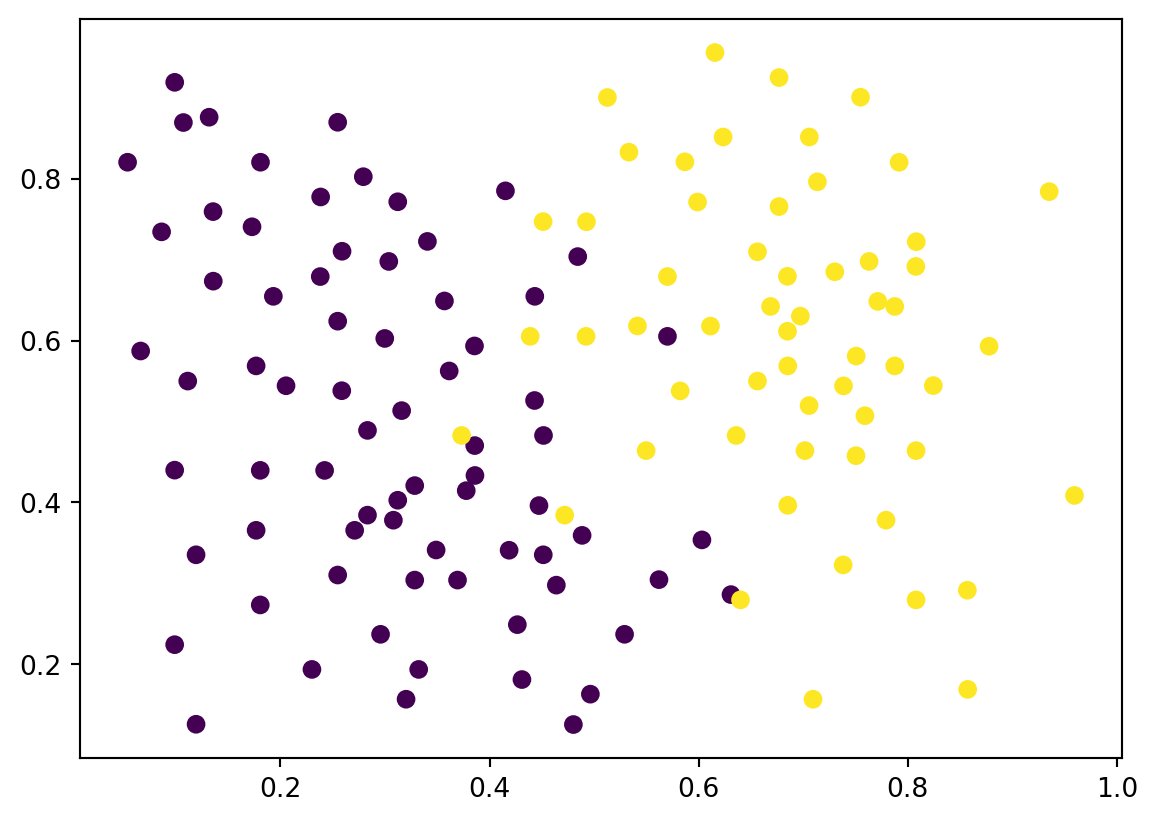
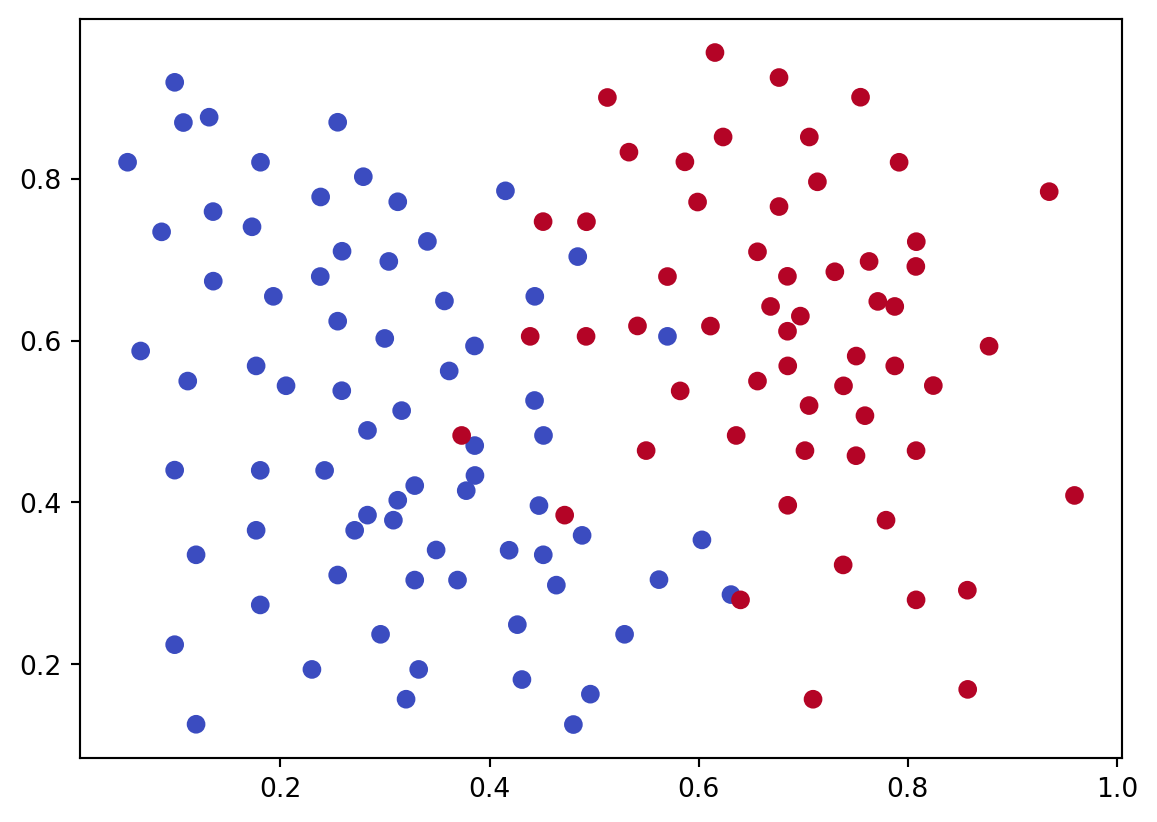
Add simple SVM classification and visualization

diff --git a/fish.html b/fish.html
@@ -98,19 +98,18 @@ pre > code.sourceCode > span > a:first-child::before { text-decoration: underlin
 
 <section id="imports" class="level1">
 <h1>imports</h1>
-<div id="112a0991" class="cell" data-execution_count="1">
+<div id="1d9efc10" class="cell" data-execution_count="1">
 <div class="sourceCode cell-code" id="cb1"><pre class="sourceCode python code-with-copy"><code class="sourceCode python"><span id="cb1-1"><a href="#cb1-1" aria-hidden="true" tabindex="-1"></a><span class="im">import</span> pandas <span class="im">as</span> pd</span>
 <span id="cb1-2"><a href="#cb1-2" aria-hidden="true" tabindex="-1"></a><span class="im">import</span> numpy <span class="im">as</span> np</span>
 <span id="cb1-3"><a href="#cb1-3" aria-hidden="true" tabindex="-1"></a><span class="im">import</span> matplotlib.pyplot <span class="im">as</span> plt</span>
 <span id="cb1-4"><a href="#cb1-4" aria-hidden="true" tabindex="-1"></a><span class="im">from</span> matplotlib.figure <span class="im">import</span> Figure</span>
 <span id="cb1-5"><a href="#cb1-5" aria-hidden="true" tabindex="-1"></a><span class="im">from</span> sklearn.svm <span class="im">import</span> SVC</span>
-<span id="cb1-6"><a href="#cb1-6" aria-hidden="true" tabindex="-1"></a><span class="im">from</span> sklearn.linear_model <span class="im">import</span> LinearRegression</span>
-<span id="cb1-7"><a href="#cb1-7" aria-hidden="true" tabindex="-1"></a><span class="im">from</span> sklearn <span class="im">import</span> datasets</span></code><button title="Copy to Clipboard" class="code-copy-button"><i class="bi"></i></button></pre></div>
+<span id="cb1-6"><a href="#cb1-6" aria-hidden="true" tabindex="-1"></a><span class="im">from</span> sklearn.linear_model <span class="im">import</span> LinearRegression</span></code><button title="Copy to Clipboard" class="code-copy-button"><i class="bi"></i></button></pre></div>
 </div>
 </section>
 <section id="mock-data" class="level1">
-<h1>mock data</h1>
-<div id="125c2a4e" class="cell" data-execution_count="2">
+<h1>mock Data</h1>
+<div id="0eb1323a" class="cell" data-execution_count="2">
 <div class="sourceCode cell-code" id="cb2"><pre class="sourceCode python code-with-copy"><code class="sourceCode python"><span id="cb2-1"><a href="#cb2-1" aria-hidden="true" tabindex="-1"></a>xVal <span class="op">=</span> np.array(<span class="bu">range</span>(<span class="dv">1</span>, <span class="dv">6</span>), dtype<span class="op">=</span><span class="st">'float'</span>)</span>
 <span id="cb2-2"><a href="#cb2-2" aria-hidden="true" tabindex="-1"></a>yVal <span class="op">=</span> <span class="dv">50</span> <span class="op">+</span> <span class="dv">12</span> <span class="op">*</span> (xVal <span class="op">-</span> <span class="dv">3</span>) <span class="op">+</span> np.random.normal(<span class="dv">0</span>, <span class="dv">4</span>, <span class="bu">len</span>(xVal))</span>
 <span id="cb2-3"><a href="#cb2-3" aria-hidden="true" tabindex="-1"></a>fig: Figure <span class="op">=</span> plt.figure()</span>
@@ -129,7 +128,7 @@ pre > code.sourceCode > span > a:first-child::before { text-decoration: underlin
 </div>
 </div>
 </div>
-<div id="8ca10e9e" class="cell" data-execution_count="3">
+<div id="218a8fb9" class="cell" data-execution_count="3">
 <div class="sourceCode cell-code" id="cb3"><pre class="sourceCode python code-with-copy"><code class="sourceCode python"><span id="cb3-1"><a href="#cb3-1" aria-hidden="true" tabindex="-1"></a>linReg <span class="op">=</span> LinearRegression()</span>
 <span id="cb3-2"><a href="#cb3-2" aria-hidden="true" tabindex="-1"></a>linReg.fit(xVal.reshape(<span class="op">-</span><span class="dv">1</span>, <span class="dv">1</span>), yVal)</span>
 <span id="cb3-3"><a href="#cb3-3" aria-hidden="true" tabindex="-1"></a></span>
@@ -153,7 +152,7 @@ pre > code.sourceCode > span > a:first-child::before { text-decoration: underlin
 </section>
 <section id="fish-dict-construction" class="level1">
 <h1>Fish Dict Construction</h1>
-<div id="7156f252" class="cell" data-execution_count="4">
+<div id="c93af35d" class="cell" data-execution_count="4">
 <div class="sourceCode cell-code" id="cb4"><pre class="sourceCode python code-with-copy"><code class="sourceCode python"><span id="cb4-1"><a href="#cb4-1" aria-hidden="true" tabindex="-1"></a>fish_raw <span class="op">=</span> pd.read_csv(<span class="st">'fish.csv'</span>)</span>
 <span id="cb4-2"><a href="#cb4-2" aria-hidden="true" tabindex="-1"></a>fish_dict <span class="op">=</span> {</span>
 <span id="cb4-3"><a href="#cb4-3" aria-hidden="true" tabindex="-1"></a>  <span class="st">'data'</span> : np.array(fish_raw.iloc[:, :<span class="op">-</span><span class="dv">1</span>]),</span>
@@ -165,7 +164,7 @@ pre > code.sourceCode > span > a:first-child::before { text-decoration: underlin
 </section>
 <section id="split-data" class="level1">
 <h1>Split Data</h1>
-<div id="1084ab0f" class="cell" data-execution_count="5">
+<div id="da1ebc5f" class="cell" data-execution_count="5">
 <div class="sourceCode cell-code" id="cb5"><pre class="sourceCode python code-with-copy"><code class="sourceCode python"><span id="cb5-1"><a href="#cb5-1" aria-hidden="true" tabindex="-1"></a>sea_bass_data <span class="op">=</span> []</span>
 <span id="cb5-2"><a href="#cb5-2" aria-hidden="true" tabindex="-1"></a>salmon_data <span class="op">=</span> []</span>
 <span id="cb5-3"><a href="#cb5-3" aria-hidden="true" tabindex="-1"></a><span class="cf">for</span> data, target <span class="kw">in</span> <span class="bu">zip</span>(fish_dict[<span class="st">'data'</span>], fish_dict[<span class="st">'target'</span>]):</span>
@@ -180,8 +179,8 @@ pre > code.sourceCode > span > a:first-child::before { text-decoration: underlin
 </section>
 <section id="scatter-plot" class="level1">
 <h1>Scatter Plot</h1>
-<div id="759cad3e" class="cell" data-execution_count="6">
-<div class="sourceCode cell-code" id="cb6"><pre class="sourceCode python code-with-copy"><code class="sourceCode python"><span id="cb6-1"><a href="#cb6-1" aria-hidden="true" tabindex="-1"></a>plt.scatter(fish_dict[<span class="st">'data'</span>][:, <span class="dv">0</span>], fish_dict[<span class="st">'data'</span>][:, <span class="dv">1</span>], c<span class="op">=</span>fish_dict[<span class="st">'target'</span>])</span>
+<div id="afdad080" class="cell" data-execution_count="6">
+<div class="sourceCode cell-code" id="cb6"><pre class="sourceCode python code-with-copy"><code class="sourceCode python"><span id="cb6-1"><a href="#cb6-1" aria-hidden="true" tabindex="-1"></a>plt.scatter(fish_dict[<span class="st">'data'</span>][:, <span class="dv">0</span>], fish_dict[<span class="st">'data'</span>][:, <span class="dv">1</span>], c<span class="op">=</span>fish_dict[<span class="st">'target'</span>], cmap<span class="op">=</span><span class="st">'coolwarm'</span>)</span>
 <span id="cb6-2"><a href="#cb6-2" aria-hidden="true" tabindex="-1"></a>plt.show()</span></code><button title="Copy to Clipboard" class="code-copy-button"><i class="bi"></i></button></pre></div>
 <div class="cell-output cell-output-display">
 <div>
@@ -194,7 +193,7 @@ pre > code.sourceCode > span > a:first-child::before { text-decoration: underlin
 </section>
 <section id="histograms" class="level1">
 <h1>Histograms</h1>
-<div id="191e95bb" class="cell" data-execution_count="7">
+<div id="820c40aa" class="cell" data-execution_count="7">
 <div class="sourceCode cell-code" id="cb7"><pre class="sourceCode python code-with-copy"><code class="sourceCode python"><span id="cb7-1"><a href="#cb7-1" aria-hidden="true" tabindex="-1"></a>fig, (bright_ax, length_ax) <span class="op">=</span> plt.subplots(<span class="dv">1</span>, <span class="dv">2</span>, figsize<span class="op">=</span>(<span class="dv">10</span>, <span class="dv">5</span>))</span>
 <span id="cb7-2"><a href="#cb7-2" aria-hidden="true" tabindex="-1"></a></span>
 <span id="cb7-3"><a href="#cb7-3" aria-hidden="true" tabindex="-1"></a><span class="cf">for</span> ax, feature_index, feature_name <span class="kw">in</span> <span class="bu">zip</span>([bright_ax, length_ax], [<span class="dv">0</span>, <span class="dv">1</span>], fish_dict[<span class="st">'feature_names'</span>]):</span>
@@ -218,7 +217,7 @@ pre > code.sourceCode > span > a:first-child::before { text-decoration: underlin
 </section>
 <section id="boxplots" class="level1">
 <h1>Boxplots</h1>
-<div id="71d9706a" class="cell" data-execution_count="8">
+<div id="92423187" class="cell" data-execution_count="8">
 <div class="sourceCode cell-code" id="cb8"><pre class="sourceCode python code-with-copy"><code class="sourceCode python"><span id="cb8-1"><a href="#cb8-1" aria-hidden="true" tabindex="-1"></a>fig, (bright_ax, length_ax) <span class="op">=</span> plt.subplots(<span class="dv">1</span>, <span class="dv">2</span>, figsize<span class="op">=</span>(<span class="dv">10</span>, <span class="dv">5</span>))</span>
 <span id="cb8-2"><a href="#cb8-2" aria-hidden="true" tabindex="-1"></a><span class="cf">for</span> ax, feature_index, feature_name <span class="kw">in</span> <span class="bu">zip</span>([bright_ax, length_ax], [<span class="dv">0</span>, <span class="dv">1</span>], fish_dict[<span class="st">'feature_names'</span>]):</span>
 <span id="cb8-3"><a href="#cb8-3" aria-hidden="true" tabindex="-1"></a>  ax.boxplot([salmon_data[:, feature_index], sea_bass_data[:, feature_index]])</span>
@@ -231,6 +230,55 @@ pre > code.sourceCode > span > a:first-child::before { text-decoration: underlin
 <div>
 <figure class="figure">
 <p><img src="fish_files/figure-html/cell-9-output-1.png" width="812" height="449" class="figure-img"></p>
+</figure>
+</div>
+</div>
+</div>
+</section>
+<section id="svm" class="level1">
+<h1>SVM</h1>
+<div id="b823117b" class="cell" data-execution_count="9">
+<div class="sourceCode cell-code" id="cb9"><pre class="sourceCode python code-with-copy"><code class="sourceCode python"><span id="cb9-1"><a href="#cb9-1" aria-hidden="true" tabindex="-1"></a>svm_model <span class="op">=</span> SVC(kernel<span class="op">=</span><span class="st">'rbf'</span>, C<span class="op">=</span><span class="dv">12</span>, gamma<span class="op">=</span><span class="fl">1.8</span>)</span>
+<span id="cb9-2"><a href="#cb9-2" aria-hidden="true" tabindex="-1"></a>svm_model.fit(X<span class="op">=</span>fish_dict[<span class="st">'data'</span>], y<span class="op">=</span>fish_dict[<span class="st">'target'</span>])</span>
+<span id="cb9-3"><a href="#cb9-3" aria-hidden="true" tabindex="-1"></a></span>
+<span id="cb9-4"><a href="#cb9-4" aria-hidden="true" tabindex="-1"></a>svm_model.score(fish_dict[<span class="st">'data'</span>], fish_dict[<span class="st">'target'</span>])</span></code><button title="Copy to Clipboard" class="code-copy-button"><i class="bi"></i></button></pre></div>
+<div class="cell-output cell-output-display" data-execution_count="279">
+<pre><code>0.9461538461538461</code></pre>
+</div>
+</div>
+</section>
+<section id="visualize-svm" class="level1">
+<h1>Visualize SVM</h1>
+<div id="695f0705" class="cell" data-execution_count="10">
+<div class="sourceCode cell-code" id="cb11"><pre class="sourceCode python code-with-copy"><code class="sourceCode python"><span id="cb11-1"><a href="#cb11-1" aria-hidden="true" tabindex="-1"></a>fig <span class="op">=</span> plt.figure()</span>
+<span id="cb11-2"><a href="#cb11-2" aria-hidden="true" tabindex="-1"></a>ax <span class="op">=</span> fig.add_axes([<span class="dv">0</span>, <span class="dv">0</span>, <span class="dv">1</span>, <span class="dv">1</span>])</span>
+<span id="cb11-3"><a href="#cb11-3" aria-hidden="true" tabindex="-1"></a>ax.scatter(fish_dict[<span class="st">'data'</span>][:, <span class="dv">0</span>], fish_dict[<span class="st">'data'</span>][:, <span class="dv">1</span>], c<span class="op">=</span>fish_dict[<span class="st">'target'</span>], cmap<span class="op">=</span><span class="st">'coolwarm'</span>)</span>
+<span id="cb11-4"><a href="#cb11-4" aria-hidden="true" tabindex="-1"></a>xlim <span class="op">=</span> ax.get_xlim()</span>
+<span id="cb11-5"><a href="#cb11-5" aria-hidden="true" tabindex="-1"></a>ylim <span class="op">=</span> ax.get_ylim()</span>
+<span id="cb11-6"><a href="#cb11-6" aria-hidden="true" tabindex="-1"></a></span>
+<span id="cb11-7"><a href="#cb11-7" aria-hidden="true" tabindex="-1"></a><span class="co"># Create a grid of points in the plot to evaluate the model</span></span>
+<span id="cb11-8"><a href="#cb11-8" aria-hidden="true" tabindex="-1"></a>xx <span class="op">=</span> np.linspace(xlim[<span class="dv">0</span>], xlim[<span class="dv">1</span>], <span class="dv">30</span>)</span>
+<span id="cb11-9"><a href="#cb11-9" aria-hidden="true" tabindex="-1"></a>yy <span class="op">=</span> np.linspace(ylim[<span class="dv">0</span>], ylim[<span class="dv">1</span>], <span class="dv">30</span>)</span>
+<span id="cb11-10"><a href="#cb11-10" aria-hidden="true" tabindex="-1"></a>YY, XX <span class="op">=</span> np.meshgrid(yy, xx)</span>
+<span id="cb11-11"><a href="#cb11-11" aria-hidden="true" tabindex="-1"></a>xy <span class="op">=</span> np.vstack([XX.ravel(), YY.ravel()]).T</span>
+<span id="cb11-12"><a href="#cb11-12" aria-hidden="true" tabindex="-1"></a>Z <span class="op">=</span> svm_model.decision_function(xy).reshape(XX.shape)</span>
+<span id="cb11-13"><a href="#cb11-13" aria-hidden="true" tabindex="-1"></a></span>
+<span id="cb11-14"><a href="#cb11-14" aria-hidden="true" tabindex="-1"></a><span class="co"># Plot decision boundary and margins</span></span>
+<span id="cb11-15"><a href="#cb11-15" aria-hidden="true" tabindex="-1"></a>ax.contourf(XX, YY, Z, levels<span class="op">=</span><span class="dv">0</span>, alpha<span class="op">=</span><span class="fl">0.5</span>,</span>
+<span id="cb11-16"><a href="#cb11-16" aria-hidden="true" tabindex="-1"></a>            colors<span class="op">=</span>[<span class="st">'blue'</span>, <span class="st">'red'</span>])</span>
+<span id="cb11-17"><a href="#cb11-17" aria-hidden="true" tabindex="-1"></a>ax.contour(XX, YY, Z, colors<span class="op">=</span><span class="st">'k'</span>, levels<span class="op">=</span>[<span class="op">-</span><span class="dv">1</span>, <span class="dv">0</span>, <span class="dv">1</span>], alpha<span class="op">=</span><span class="fl">0.5</span>,</span>
+<span id="cb11-18"><a href="#cb11-18" aria-hidden="true" tabindex="-1"></a>           linestyles<span class="op">=</span>[<span class="st">'--'</span>, <span class="st">'-'</span>, <span class="st">'--'</span>])</span>
+<span id="cb11-19"><a href="#cb11-19" aria-hidden="true" tabindex="-1"></a></span>
+<span id="cb11-20"><a href="#cb11-20" aria-hidden="true" tabindex="-1"></a><span class="co"># Plot support vectors</span></span>
+<span id="cb11-21"><a href="#cb11-21" aria-hidden="true" tabindex="-1"></a>ax.scatter(svm_model.support_vectors_[:, <span class="dv">0</span>], svm_model.support_vectors_[:, <span class="dv">1</span>], s<span class="op">=</span><span class="dv">100</span>,</span>
+<span id="cb11-22"><a href="#cb11-22" aria-hidden="true" tabindex="-1"></a>           linewidth<span class="op">=</span><span class="dv">1</span>, facecolors<span class="op">=</span><span class="st">'none'</span>, edgecolors<span class="op">=</span><span class="st">'k'</span>)</span>
+<span id="cb11-23"><a href="#cb11-23" aria-hidden="true" tabindex="-1"></a></span>
+<span id="cb11-24"><a href="#cb11-24" aria-hidden="true" tabindex="-1"></a>plt.title(<span class="st">"Non-Linear SVM Decision Boundary (RBF Kernel)"</span>)</span>
+<span id="cb11-25"><a href="#cb11-25" aria-hidden="true" tabindex="-1"></a>plt.show()</span></code><button title="Copy to Clipboard" class="code-copy-button"><i class="bi"></i></button></pre></div>
+<div class="cell-output cell-output-display">
+<div>
+<figure class="figure">
+<p><img src="fish_files/figure-html/cell-11-output-1.png" width="729" height="542" class="figure-img"></p>
 </figure>
 </div>
 </div>
